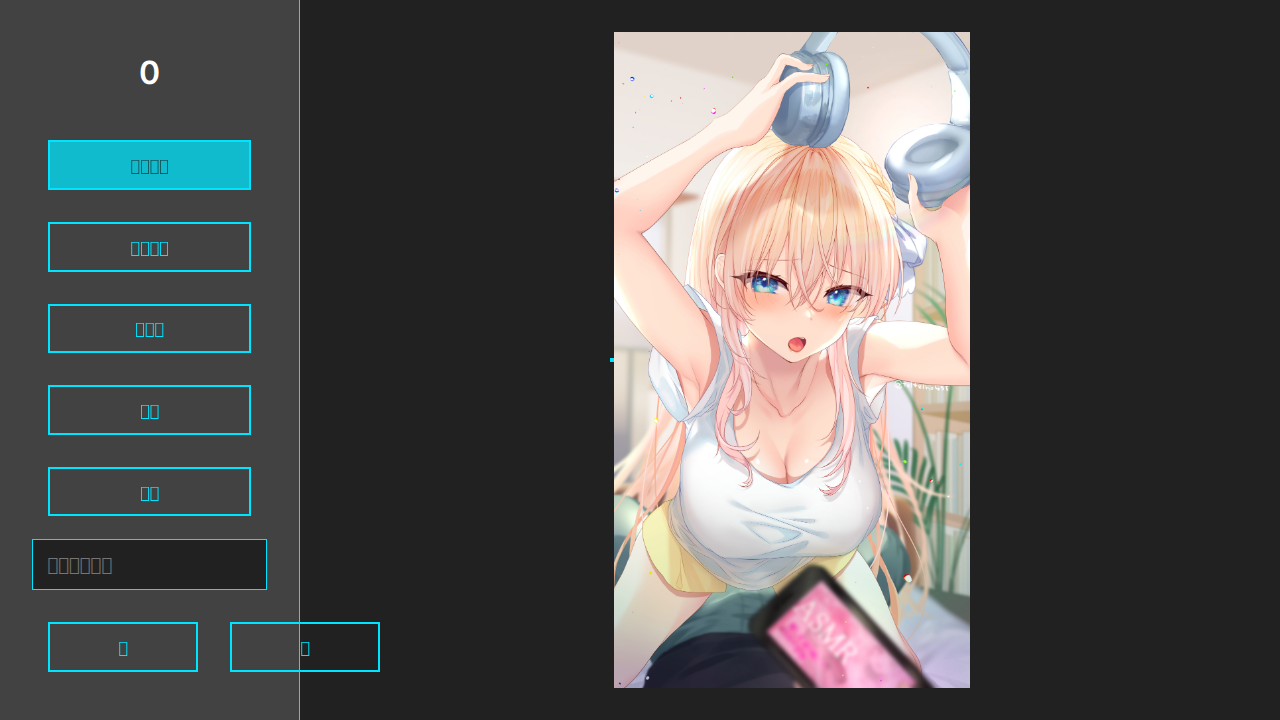
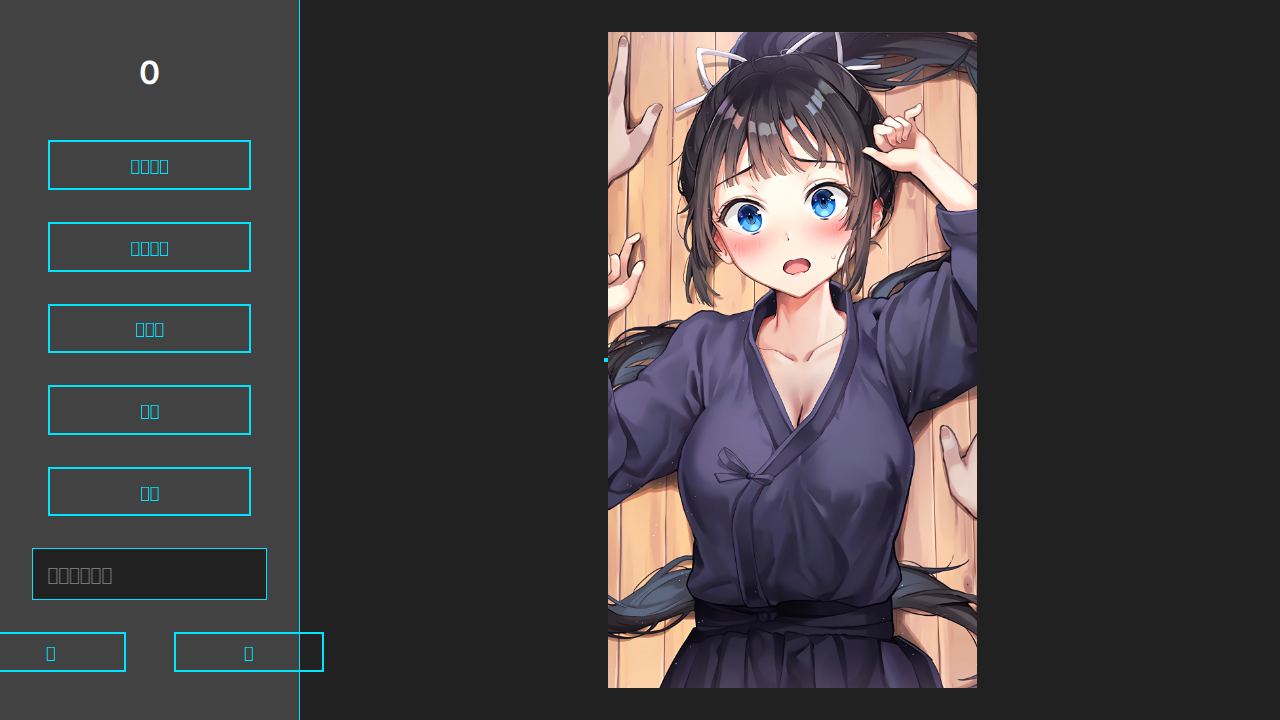
Fix: Adjust zoom button styling to fit the menu container.
This commit also includes the following changes from the previous submission:
- Implemented a new dark theme with a vibrant accent color.
- Modernized the layout using Flexbox for a responsive two-column design.
- Replaced the broken image API with the `waifu.im` API.
- Refactored the JavaScript to use `localStorage` instead of cookies.
- Moved inline styles and event handlers to separate files.
- Added a GitHub Actions workflow to deploy the application to GitHub Pages.
- Cleaned up the `Readme.md` file with a project description.
- Fixed several bugs, including scoping issues with event handlers.

diff --git a/css/style.css b/css/style.css
@@ -50,8 +50,13 @@
 
 .zoom-container {
   display: flex;
-  justify-content: space-between;
+  justify-content: center;
+  gap: 1em;
   margin-top: 1em;
+}
+
+.zoom-container .button {
+    padding: 0.5em 1em;
 }
 
 /* Image Styles */

diff --git a/jules-scratch/verification/verify.py b/jules-scratch/verification/verify.py
@@ -17,9 +17,5 @@ with sync_playwright() as p:
     expect(image_locator).to_have_attribute("src", re.compile(r"https://"), timeout=15000)
     expect(image_locator).to_be_visible()
 
-    # Click the "add" button and verify that a new box is added
-    page.locator("#add").click()
-    expect(page.locator(".resize-div")).to_have_count(2)
-
     page.screenshot(path="jules-scratch/verification/verification.png")
     browser.close()
